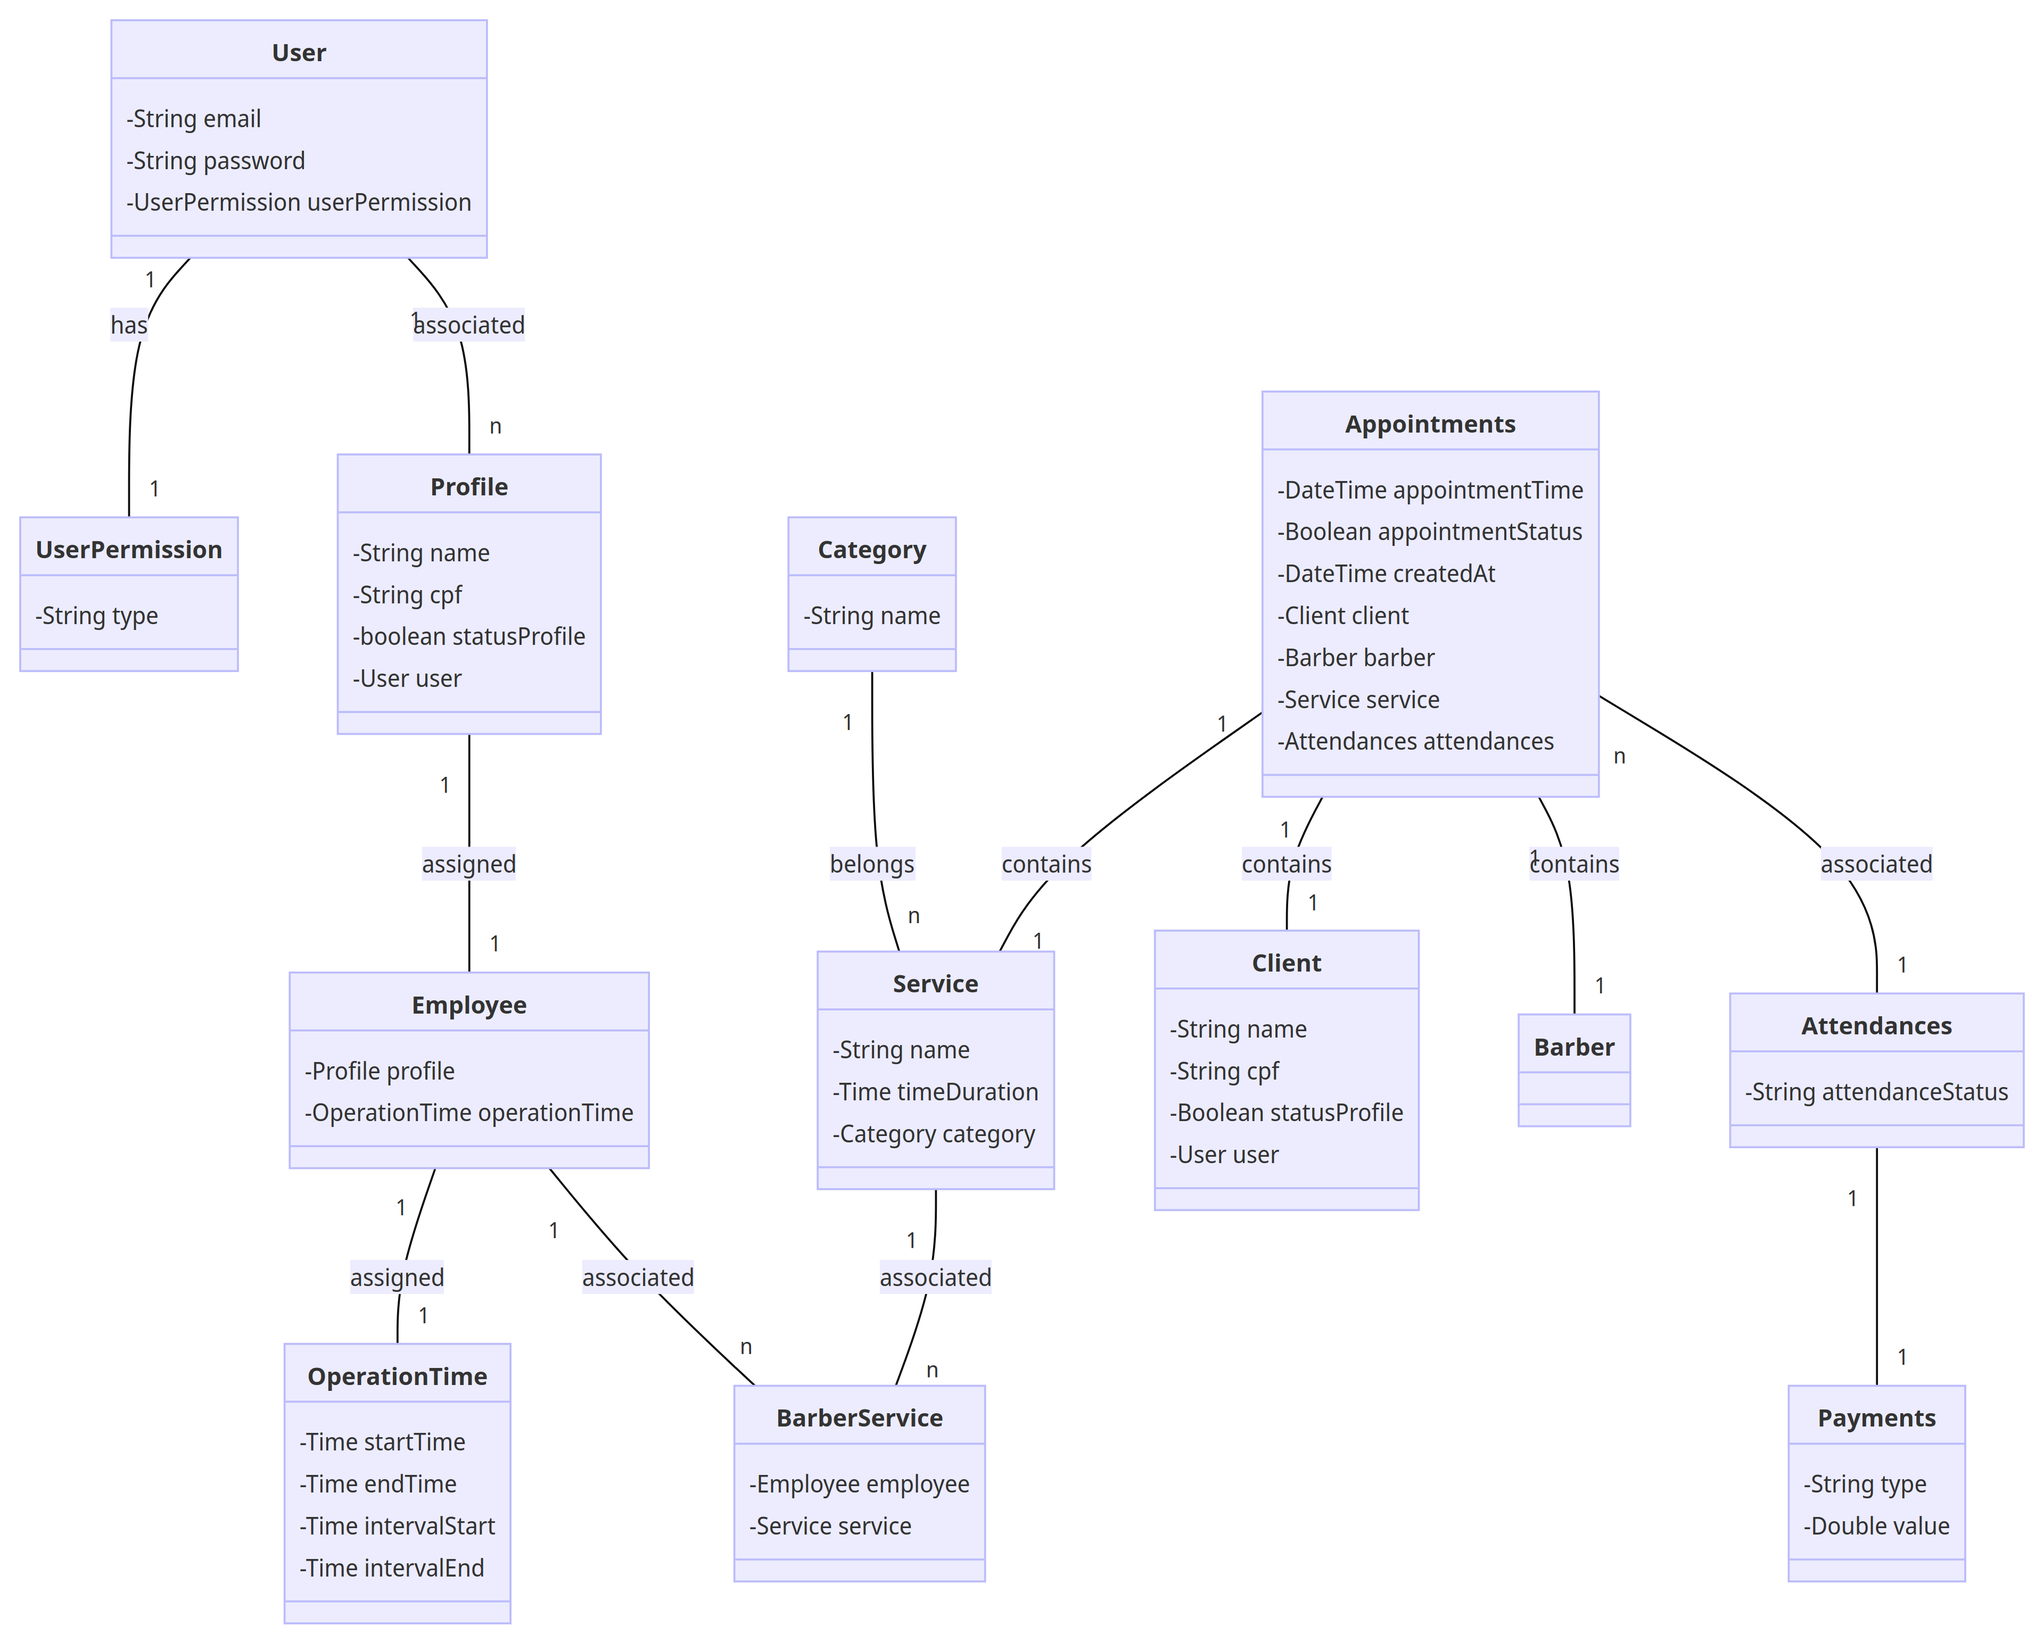
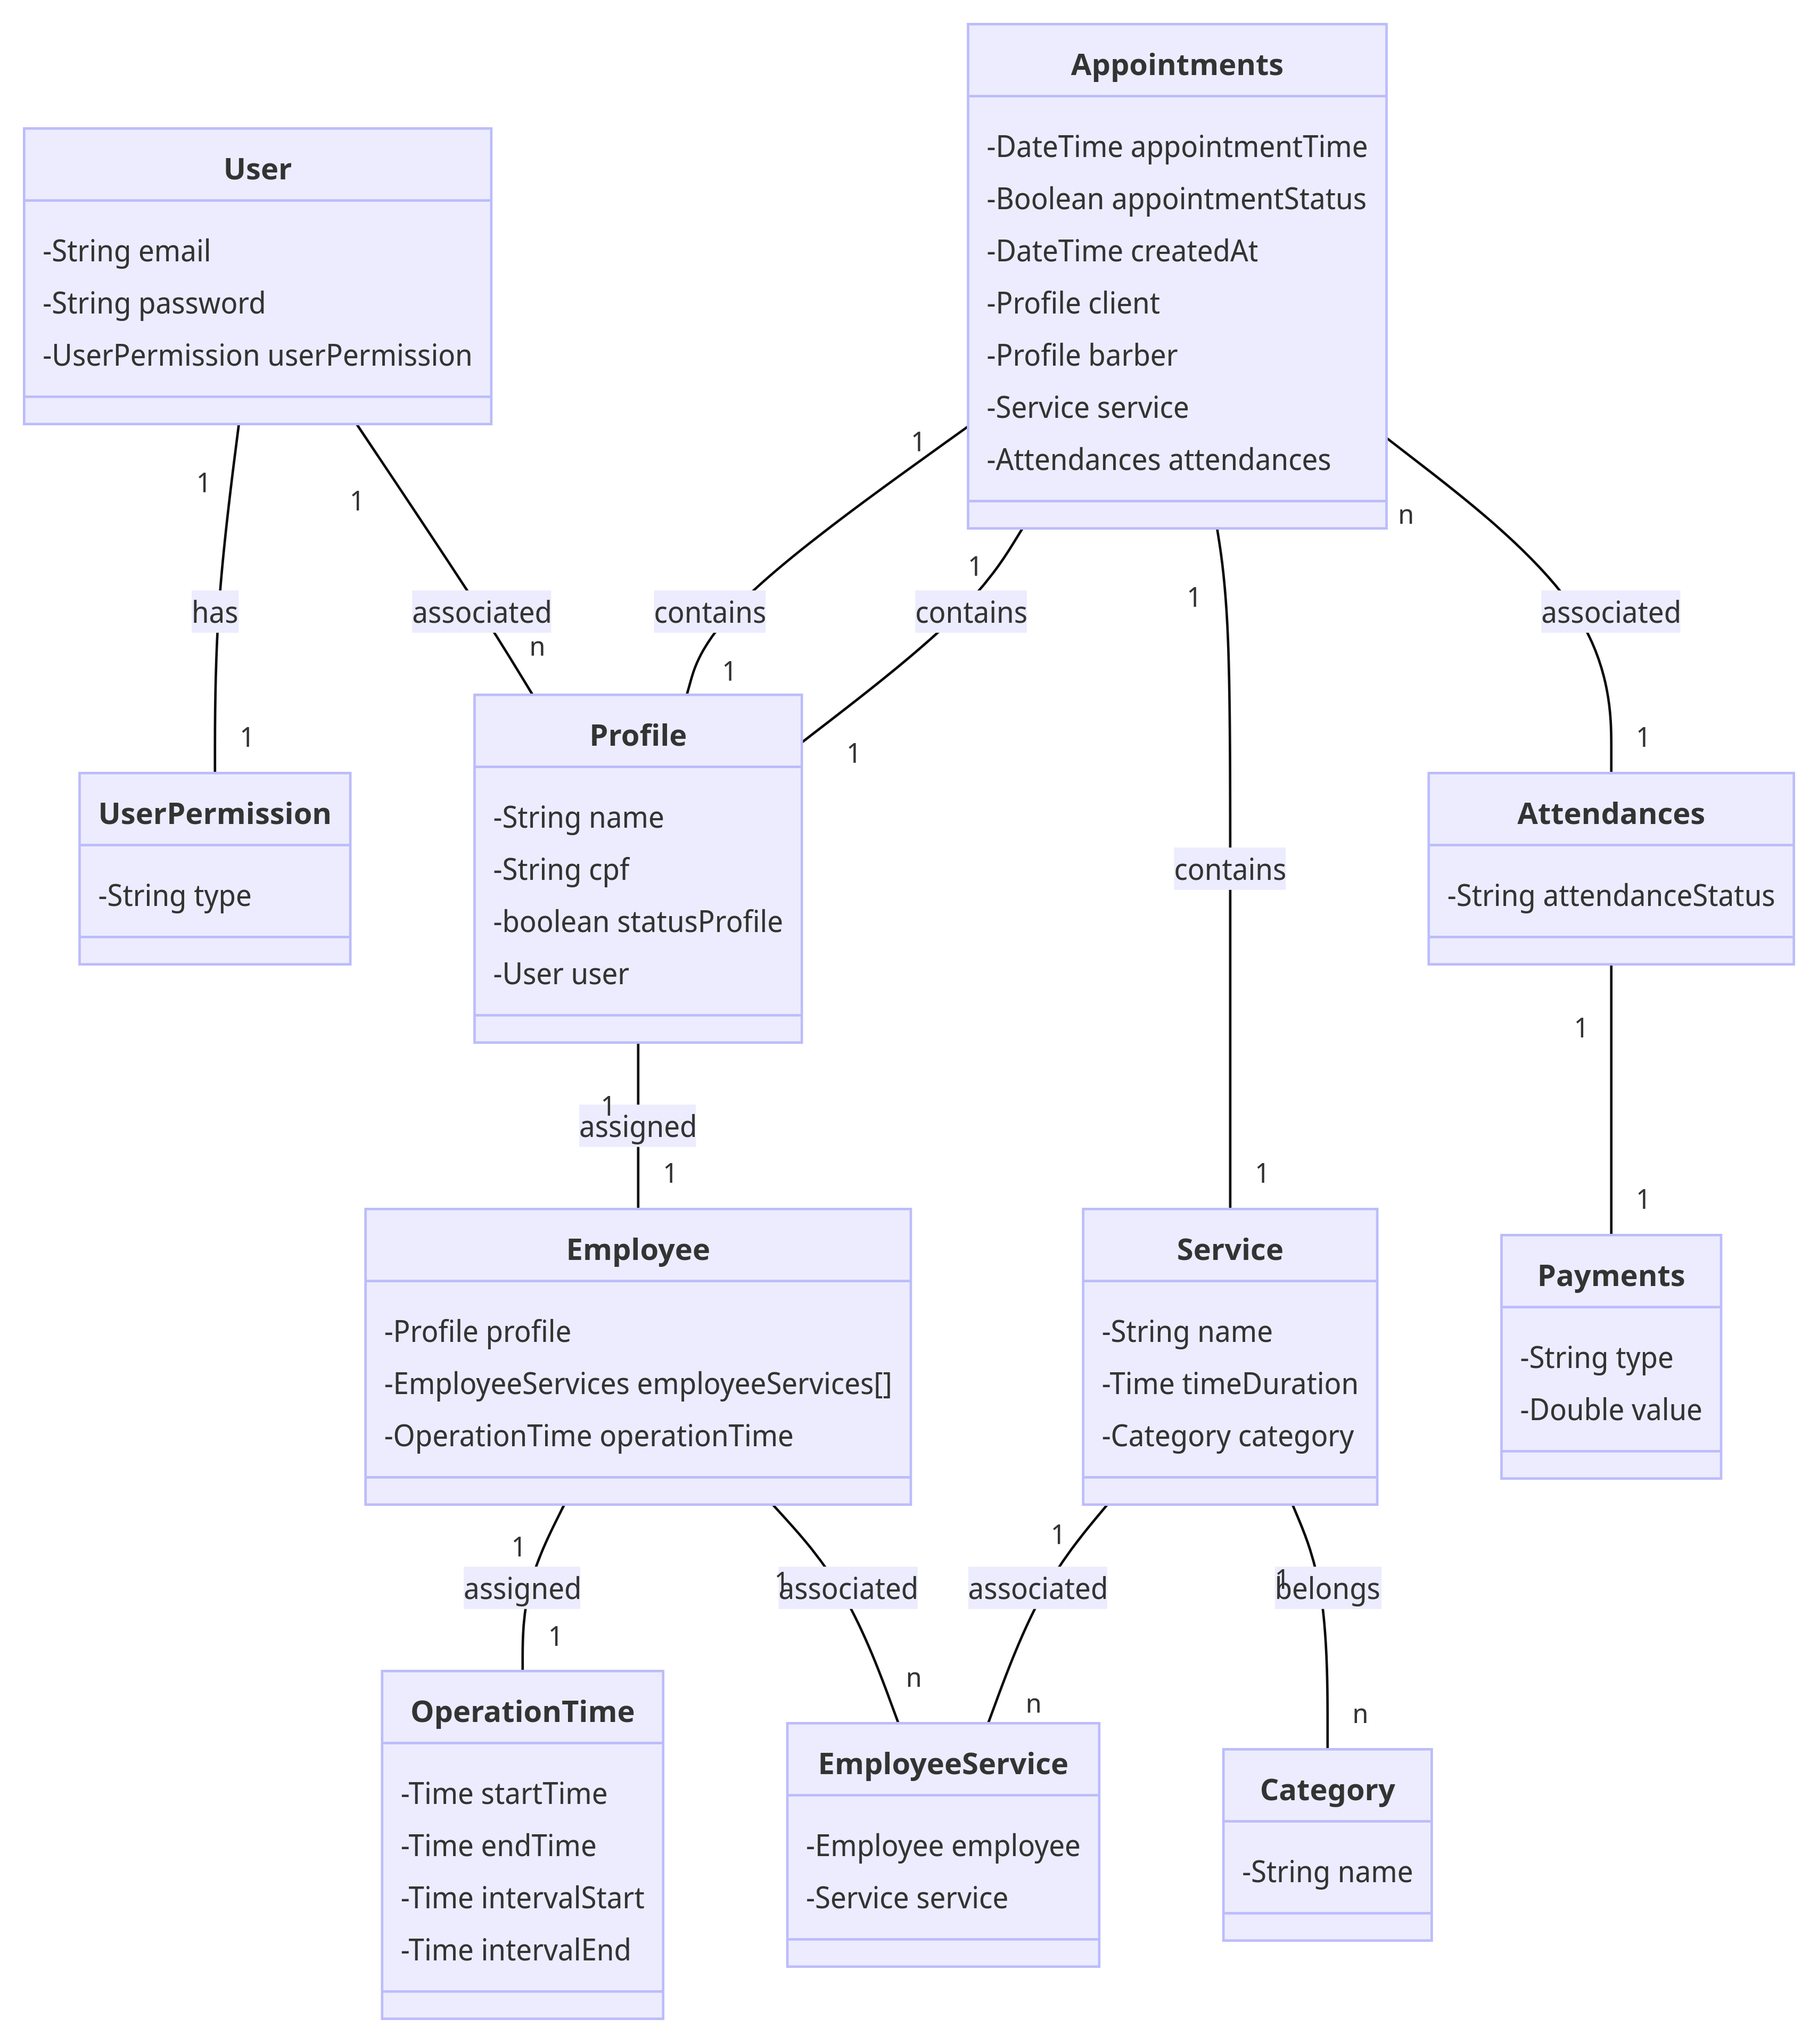
Ampliacao de busca de dados do funcionarios e refatoracao de arquivos

diff --git a/src/main/java/com/jubasbackend/domain/entity/EmployeeServices.java b/src/main/java/com/jubasbackend/domain/entity/EmployeeServices.java
@@ -1,0 +1,44 @@
+package com.jubasbackend.domain.entity;
+
+import jakarta.persistence.*;
+
+import java.util.UUID;
+
+@Entity(name = "tb_employee_services")
+public class EmployeeServices {
+    @Id
+    @GeneratedValue(strategy = GenerationType.AUTO)
+    private UUID id;
+
+    @ManyToOne
+    @JoinColumn(name = "employee_id")
+    private Employee employee;
+
+    @ManyToOne
+    @JoinColumn(name = "service_id")
+    private Service service;
+
+    public UUID getId() {
+        return id;
+    }
+
+    public void setId(UUID id) {
+        this.id = id;
+    }
+
+    public Employee getEmployee() {
+        return employee;
+    }
+
+    public void setEmployee(Employee employee) {
+        this.employee = employee;
+    }
+
+    public Service getService() {
+        return service;
+    }
+
+    public void setService(Service service) {
+        this.service = service;
+    }
+}

diff --git a/src/main/java/com/jubasbackend/domain/entity/Employee.java b/src/main/java/com/jubasbackend/domain/entity/Employee.java
@@ -17,6 +17,10 @@ public class Employee {
     @NotNull
     private Profile profile;
 
+    @OneToMany(cascade = CascadeType.ALL, fetch = FetchType.EAGER)
+    @JoinColumn(name = "employee_id")
+    private List<EmployeeServices> services;
+
     @ManyToOne
     @JoinColumn(name = "operation_time_id")
     private OperationTime operationTime;
@@ -35,6 +39,14 @@ public class Employee {
 
     public void setProfile(Profile profile) {
         this.profile = profile;
+    }
+
+    public List<EmployeeServices> getServices() {
+        return services;
+    }
+
+    public void setServices(List<EmployeeServices> services) {
+        this.services = services;
     }
 
     public OperationTime getOperationTime() {

diff --git a/src/main/java/com/jubasbackend/domain/entity/Service.java b/src/main/java/com/jubasbackend/domain/entity/Service.java
@@ -11,11 +11,34 @@ import java.util.UUID;
 public class Service {
 
     @Id
-    @GeneratedValue(strategy = GenerationType.UUID)
+    @GeneratedValue(strategy = GenerationType.AUTO)
     private UUID id;
 
     private String name;
 
     private String timeDuration;
 
+    public UUID getId() {
+        return id;
+    }
+
+    public void setId(UUID id) {
+        this.id = id;
+    }
+
+    public String getName() {
+        return name;
+    }
+
+    public void setName(String name) {
+        this.name = name;
+    }
+
+    public String getTimeDuration() {
+        return timeDuration;
+    }
+
+    public void setTimeDuration(String timeDuration) {
+        this.timeDuration = timeDuration;
+    }
 }

diff --git a/src/main/java/com/jubasbackend/controller/EmployeeController.java b/src/main/java/com/jubasbackend/controller/EmployeeController.java
@@ -1,7 +1,7 @@
 package com.jubasbackend.controller;
 
 import com.jubasbackend.domain.entity.Employee;
-import com.jubasbackend.dto.EmployeeDTO;
+import com.jubasbackend.dto.employee.EmployeeDTO;
 import com.jubasbackend.service.EmployeeService;
 import org.springframework.beans.factory.annotation.Autowired;
 import org.springframework.http.ResponseEntity;
@@ -23,6 +23,6 @@ public class EmployeeController {
 
     @GetMapping
     public ResponseEntity<List<EmployeeDTO>> findAll(){
-        return ResponseEntity.ok(employeeService.findAll().stream().toList());
+        return ResponseEntity.ok(employeeService.findAll());
     }
 }

diff --git a/src/main/java/com/jubasbackend/dto/employee/EmployeeDTO.java b/src/main/java/com/jubasbackend/dto/employee/EmployeeDTO.java
@@ -1,0 +1,15 @@
+package com.jubasbackend.dto.employee;
+
+import com.jubasbackend.domain.entity.Employee;
+import com.jubasbackend.domain.entity.EmployeeServices;
+import com.jubasbackend.domain.entity.OperationTime;
+import com.jubasbackend.dto.profile.ProfileDTO;
+
+import java.util.List;
+import java.util.UUID;
+
+public record EmployeeDTO(UUID id, ProfileDTO profile, OperationTime operationTime, List<EmployeeServices> services) {
+    public EmployeeDTO(Employee employee) {
+        this(employee.getId(), new ProfileDTO(employee.getProfile()), employee.getOperationTime(), employee.getServices());
+    }
+}

diff --git a/src/main/java/com/jubasbackend/service/UserService.java b/src/main/java/com/jubasbackend/service/UserService.java
@@ -1,9 +1,9 @@
 package com.jubasbackend.service;
 
-import com.jubasbackend.dto.user.MinimalUserDTO;
-import com.jubasbackend.dto.user.UserDTO;
 import com.jubasbackend.domain.entity.User;
 import com.jubasbackend.domain.repository.UserRepository;
+import com.jubasbackend.dto.user.MinimalUserDTO;
+import com.jubasbackend.dto.user.UserDTO;
 import org.springframework.beans.factory.annotation.Autowired;
 import org.springframework.stereotype.Service;
 

diff --git a/src/main/java/com/jubasbackend/service/EmployeeService.java b/src/main/java/com/jubasbackend/service/EmployeeService.java
@@ -4,7 +4,7 @@ import com.jubasbackend.domain.entity.Employee;
 import com.jubasbackend.domain.entity.Profile;
 import com.jubasbackend.domain.repository.EmployeeRepository;
 import com.jubasbackend.domain.repository.ProfileRepository;
-import com.jubasbackend.dto.EmployeeDTO;
+import com.jubasbackend.dto.employee.EmployeeDTO;
 import org.springframework.beans.factory.annotation.Autowired;
 import org.springframework.stereotype.Service;
 

diff --git a/src/main/java/com/jubasbackend/controller/UserController.java b/src/main/java/com/jubasbackend/controller/UserController.java
@@ -1,8 +1,8 @@
 package com.jubasbackend.controller;
 
+import com.jubasbackend.domain.entity.User;
 import com.jubasbackend.dto.user.MinimalUserDTO;
 import com.jubasbackend.dto.user.UserDTO;
-import com.jubasbackend.domain.entity.User;
 import com.jubasbackend.service.UserService;
 import org.springframework.beans.factory.annotation.Autowired;
 import org.springframework.http.ResponseEntity;

diff --git a/src/main/java/com/jubasbackend/controller/ProfileController.java b/src/main/java/com/jubasbackend/controller/ProfileController.java
@@ -1,7 +1,7 @@
 package com.jubasbackend.controller;
 
-import com.jubasbackend.dto.profile.ProfileDTO;
 import com.jubasbackend.domain.entity.Profile;
+import com.jubasbackend.dto.profile.ProfileDTO;
 import com.jubasbackend.service.ProfileService;
 import org.springframework.beans.factory.annotation.Autowired;
 import org.springframework.http.ResponseEntity;

diff --git a/src/main/java/com/jubasbackend/domain/entity/Profile.java b/src/main/java/com/jubasbackend/domain/entity/Profile.java
@@ -1,7 +1,6 @@
 package com.jubasbackend.domain.entity;
 
 import jakarta.persistence.*;
-import jakarta.validation.constraints.NotNull;
 
 import java.util.UUID;
 
@@ -58,7 +57,7 @@ public class Profile {
         return user;
     }
 
-    public void setUser(User user)  {
+    public void setUser(User user) {
         this.user = user;
     }
 }

diff --git a/src/main/java/com/jubasbackend/domain/entity/UserPermission.java b/src/main/java/com/jubasbackend/domain/entity/UserPermission.java
@@ -1,6 +1,9 @@
 package com.jubasbackend.domain.entity;
 
-import jakarta.persistence.*;
+import jakarta.persistence.Entity;
+import jakarta.persistence.GeneratedValue;
+import jakarta.persistence.GenerationType;
+import jakarta.persistence.Id;
 
 @Entity(name = "tb_user_permission")
 public class UserPermission {

diff --git a/src/main/java/com/jubasbackend/domain/entity/OperationTime.java b/src/main/java/com/jubasbackend/domain/entity/OperationTime.java
@@ -6,9 +6,7 @@ import jakarta.persistence.GeneratedValue;
 import jakarta.persistence.GenerationType;
 import jakarta.persistence.Id;
 
-import java.io.Serializable;
 import java.time.LocalTime;
-import java.util.UUID;
 
 @Entity(name = "tb_operation_time")
 public class OperationTime {
